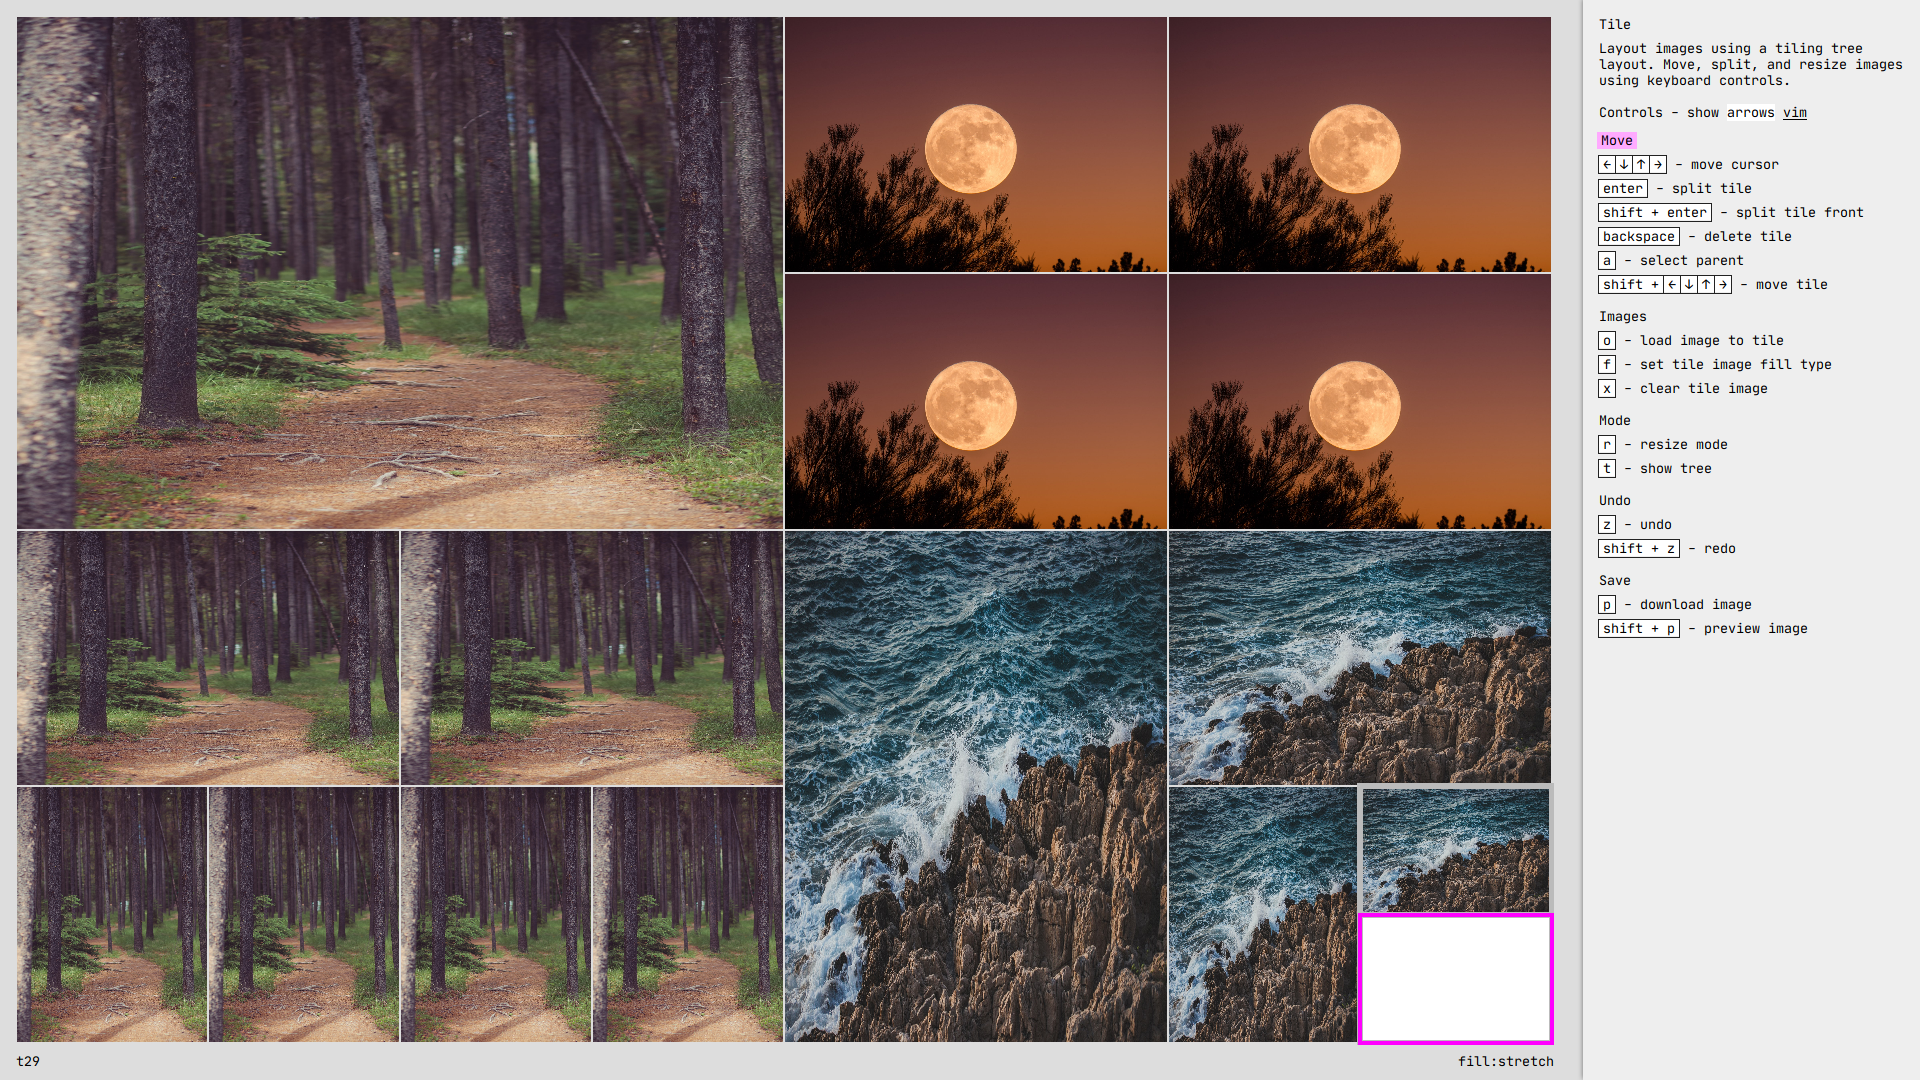
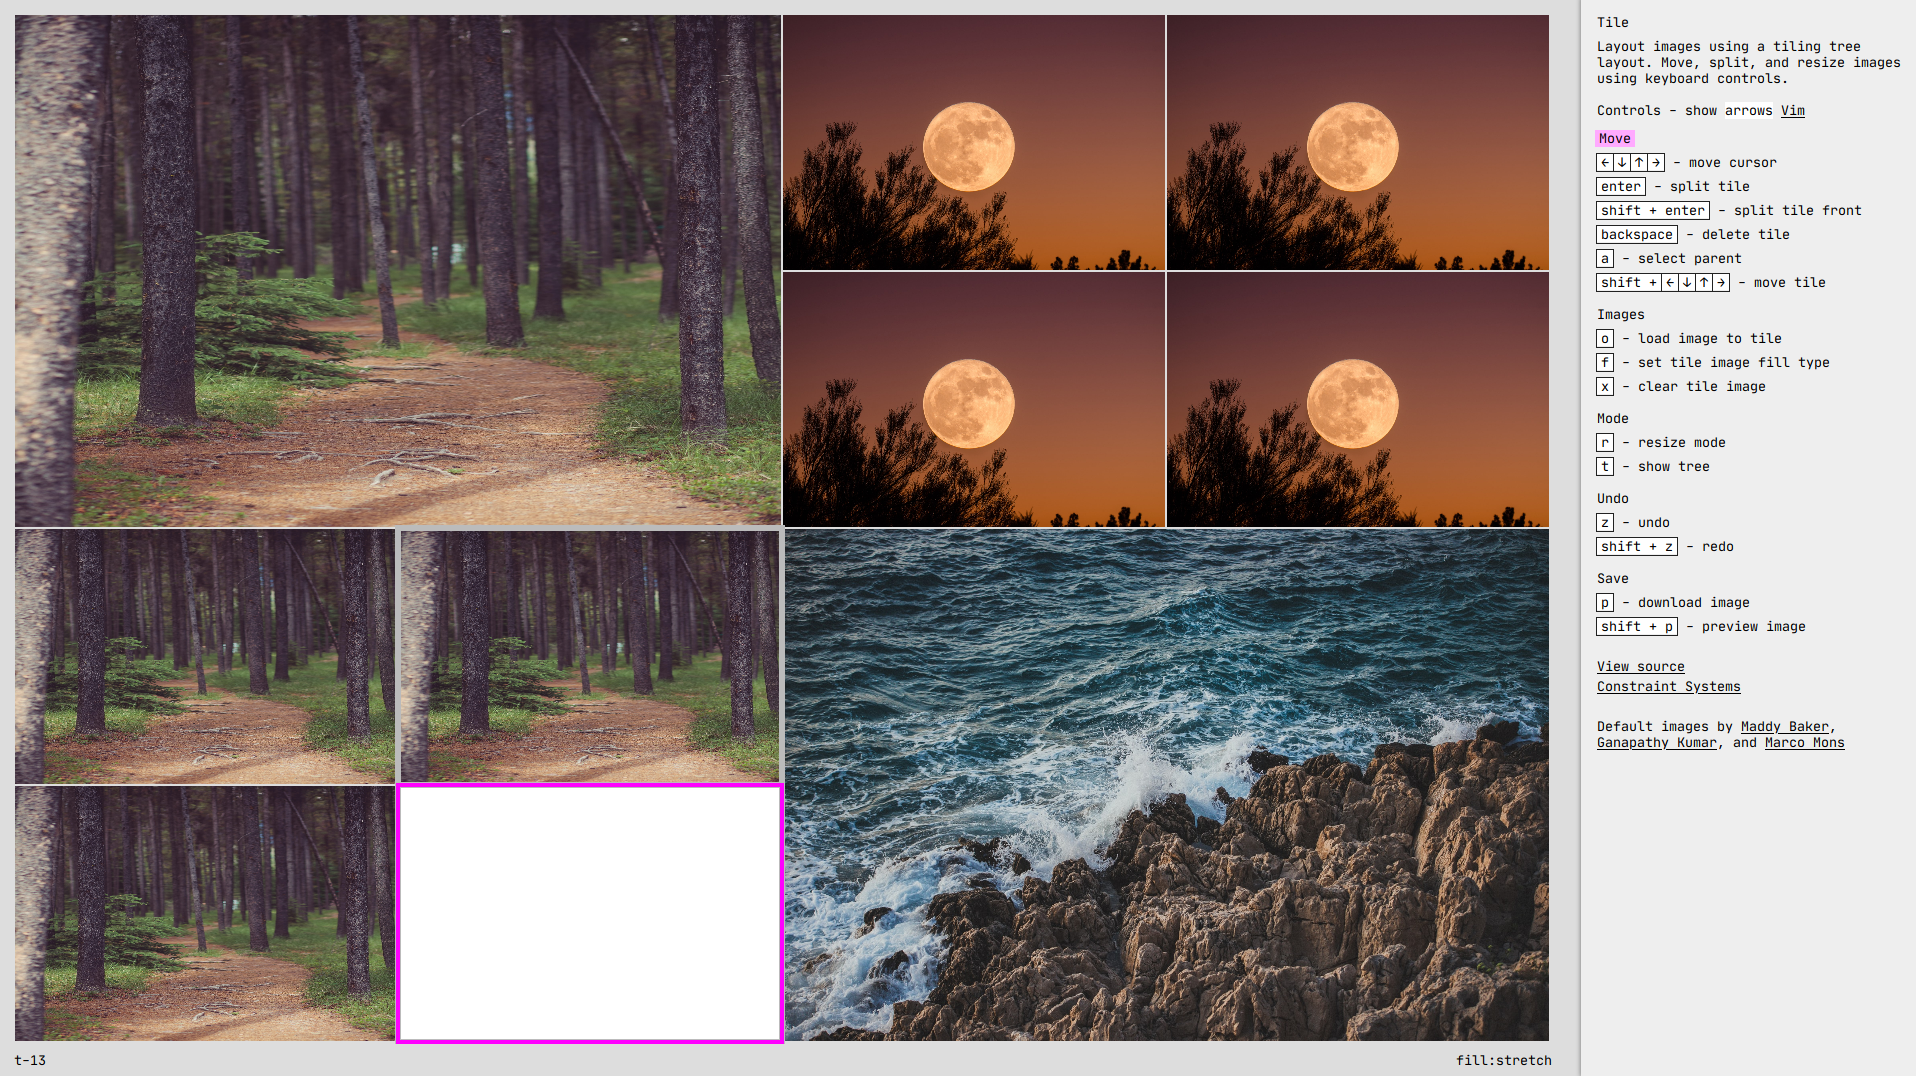
more launch prep

diff --git a/m/help.js b/m/help.js
@@ -99,6 +99,7 @@ export function renderHelp() {
       )
       html += hspace
       html += d(b(getDirSymbol(cancel_key), cancel_key) + l('cancel move'))
+      html += space
     } else {
       html += hspace
       html += qspace
@@ -159,6 +160,7 @@ export function renderHelp() {
       html += d(
         `Default images by <a href="https://unsplash.com/photos/qx-fv-jB0iM" target="_blank">Maddy Baker</a>, <a href="https://unsplash.com/photos/9kbsq91NFwg" target="_blank">Ganapathy Kumar</a>, and <a href="https://unsplash.com/photos/58pDwteN9b8" target="_blank">Marco Mons</a>`
       )
+      html += space
     }
   } else if (state.mode === 'resize') {
     html += hspace
@@ -192,7 +194,7 @@ export function renderHelp() {
     html += d(b('p') + l('download image'))
     html += hspace
     html += d(b('shift + p', 'p', undefined, true) + l('preview image'))
-    html += hspace
+    html += space
   }
   $help.innerHTML = html
 }

diff --git a/app.js b/app.js
@@ -31,6 +31,10 @@ window.addEventListener('load', () => {
 
   let adjust_w = w - 352 - 16 * 2 + 4
   let adjust_h = h - 16 * 2 - 20 + 4
+  if (window.innerWidth < 800) {
+    adjust_w += 352
+    adjust_h -= 260
+  }
 
   state.root_size = [adjust_w, adjust_h]
   rx.canvas.style.marginTop = 14 + 'px'

diff --git a/style.css b/style.css
@@ -102,6 +102,17 @@ a {
   box-shadow: 0 1px 4px rgba(0, 0, 0, 0.5);
 }
 
+@media (max-width: 800px) {
+  #sidebar {
+    bottom: 0;
+    left: 0;
+    width: 100%;
+    right: 0;
+    top: auto;
+    height: 260px;
+  }
+}
+
 /* Spacers */
 .spacer,
 .hspacer,
